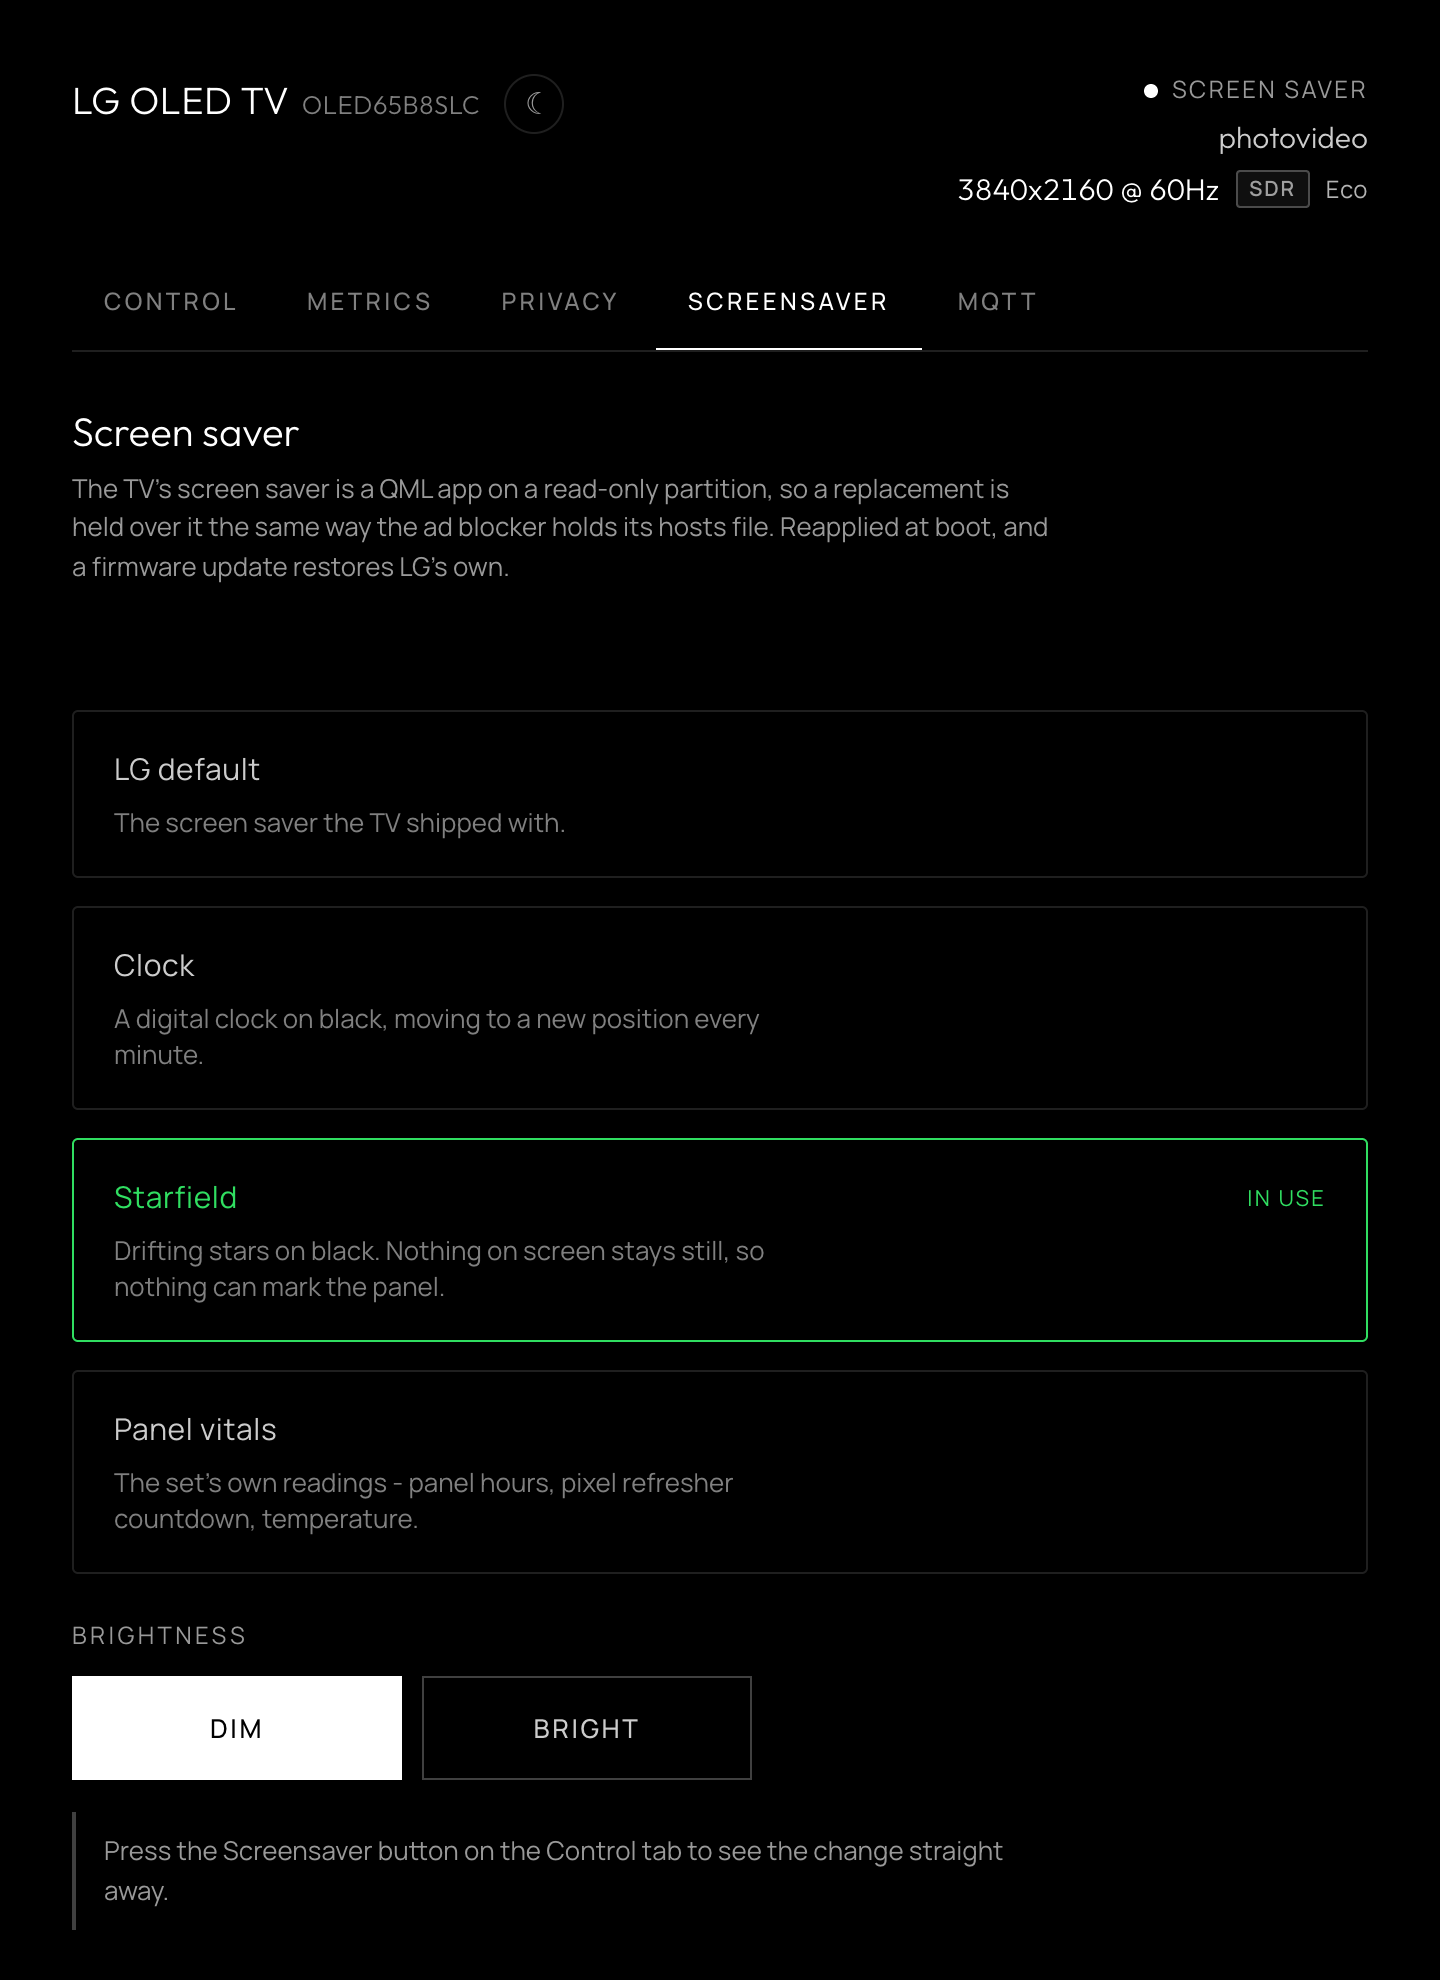
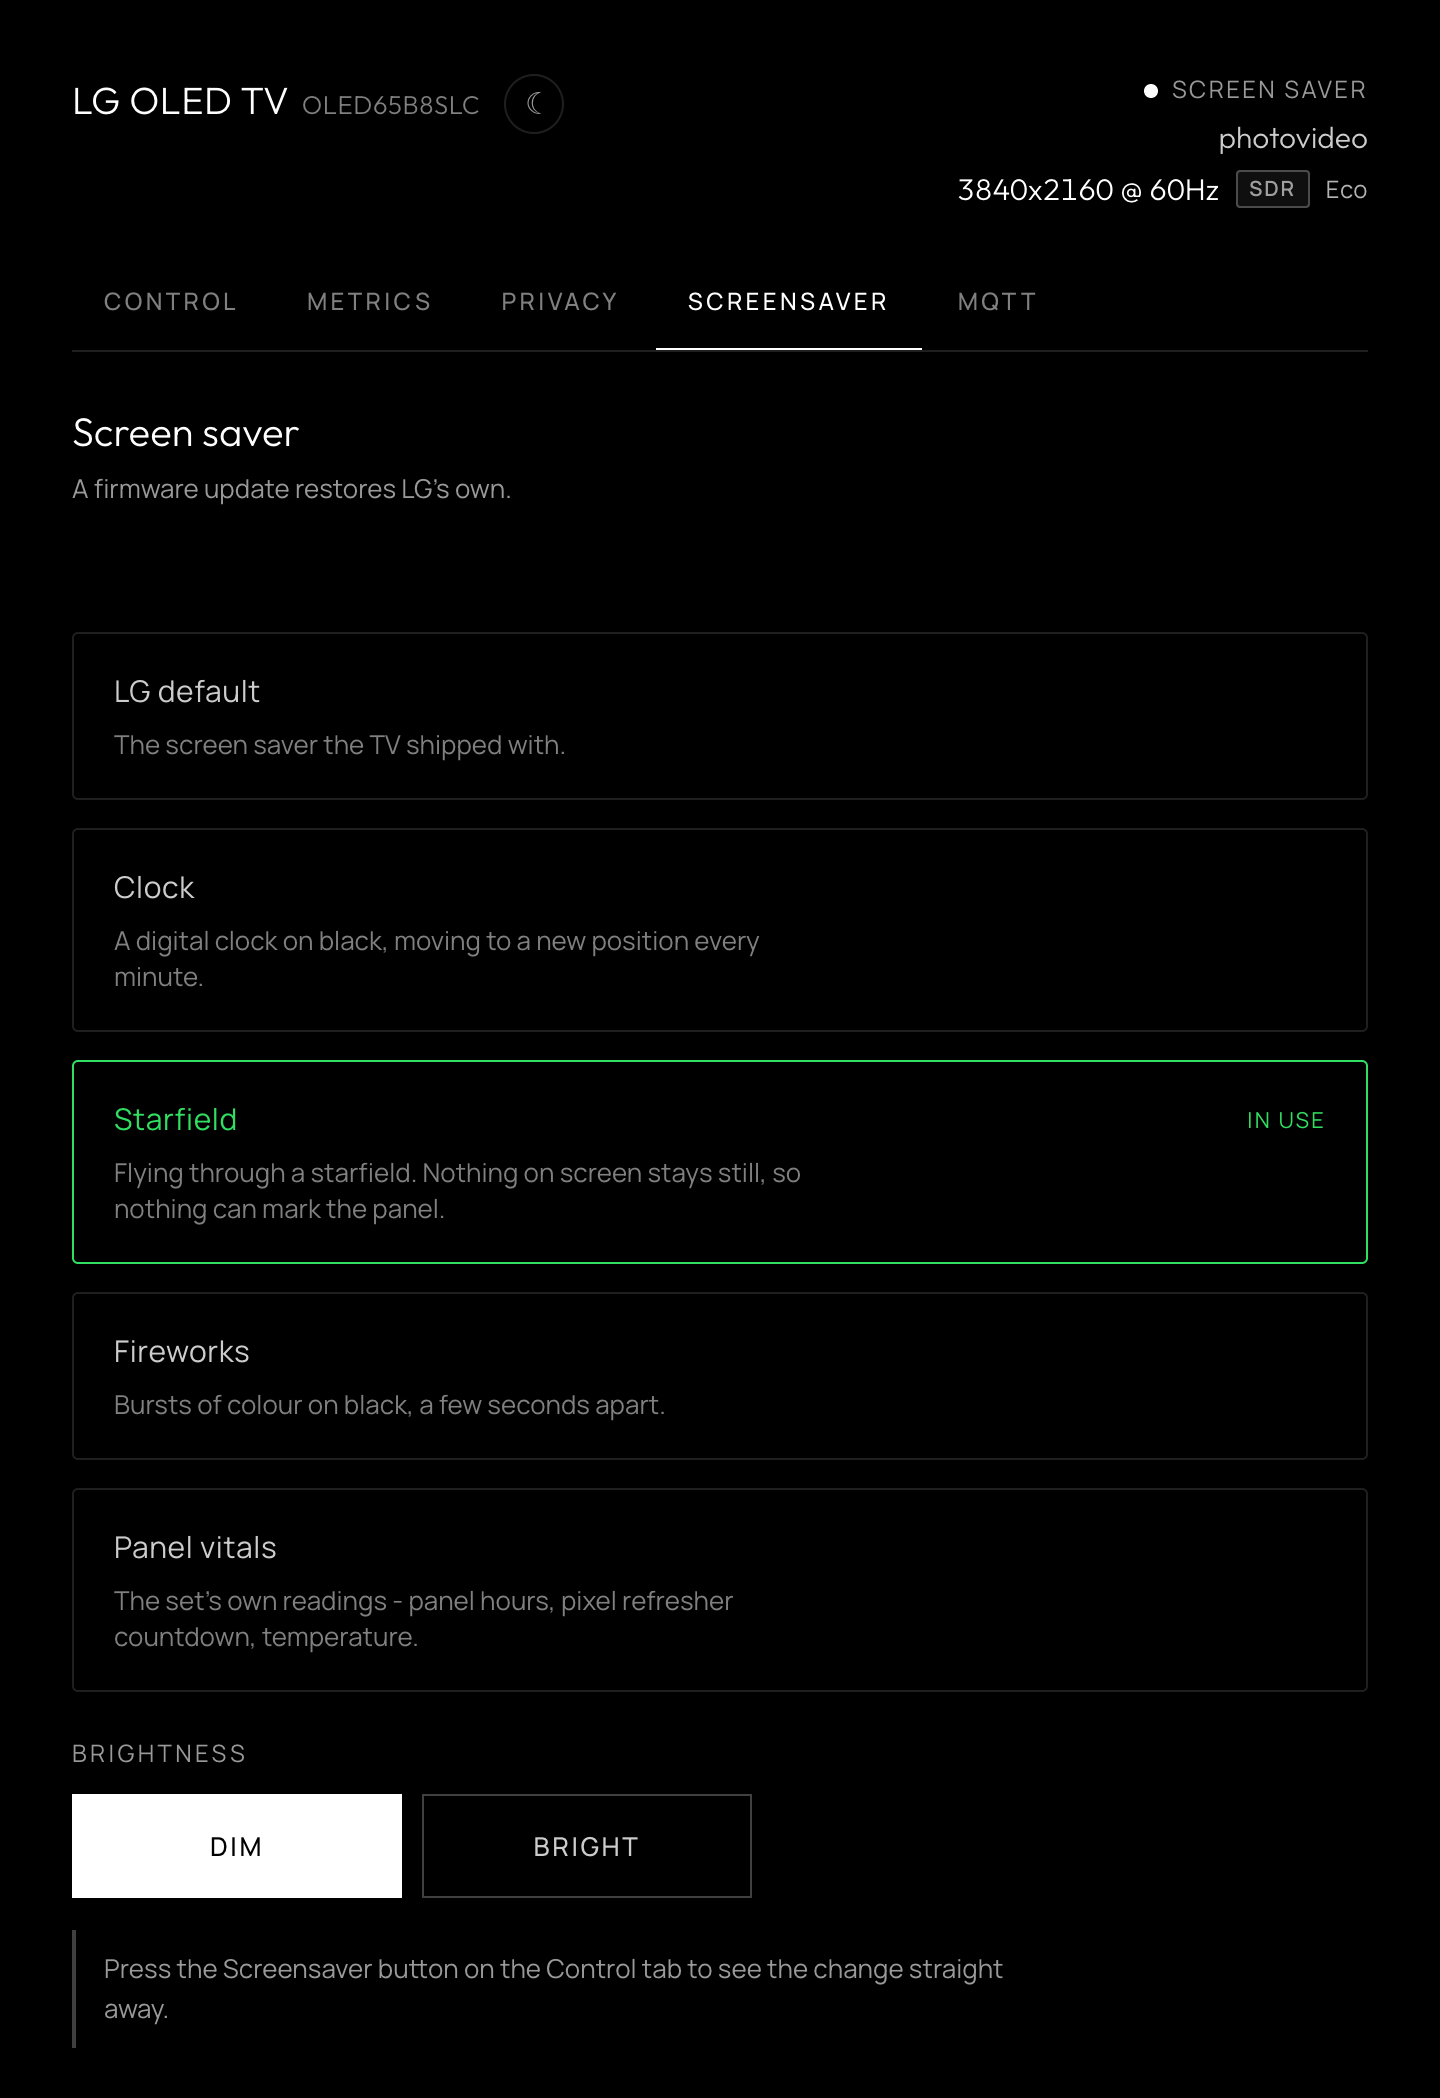
Cut the implementation detail out of the screen saver panel
How the replacement is held over LG's is not something anyone using the
dashboard needs to read. What matters is that a firmware update puts LG's back.

diff --git a/server/assets/ui.html b/server/assets/ui.html
@@ -806,9 +806,7 @@ footer{margin-top:38px;font-size:12px;letter-spacing:.10em;text-transform:upperc
   <div class="pv-top">
     <div>
       <div class="pv-h">Screen saver</div>
-      <div class="pv-sub">The TV's screen saver is a QML app on a read-only partition, so a
-        replacement is held over it the same way the ad blocker holds its hosts file.
-        Reapplied at boot, and a firmware update restores LG's own.</div>
+      <div class="pv-sub">A firmware update restores LG's own.</div>
     </div>
   </div>
 

diff --git a/README.md b/README.md
@@ -51,11 +51,10 @@ System monitoring
 The Screensaver tab, or `/?tab=screensaver`. Four in place of LG's: a clock, a
 starfield, fireworks, and one showing the set's own panel hours and refresher
 countdown. Each draws dim or bright, and all of them move so nothing marks the
-panel. The fireworks are written from scratch on QtQuick.Particles, not taken
-from the ones LG shipped on older sets.
+panel. A firmware update restores LG's own.
 
 <p align="center">
-  <a href="docs/screenshots/screensaver.png"><img src="docs/screenshots/screensaver.png" alt="Screensaver tab: LG default, Clock, Starfield and Panel vitals, with a dim and bright toggle" width="700"></a>
+  <a href="docs/screenshots/screensaver.png"><img src="docs/screenshots/screensaver.png" alt="Screensaver tab: LG default, Clock, Starfield, Fireworks and Panel vitals, with a dim and bright toggle" width="700"></a>
 </p>
 
 ---
